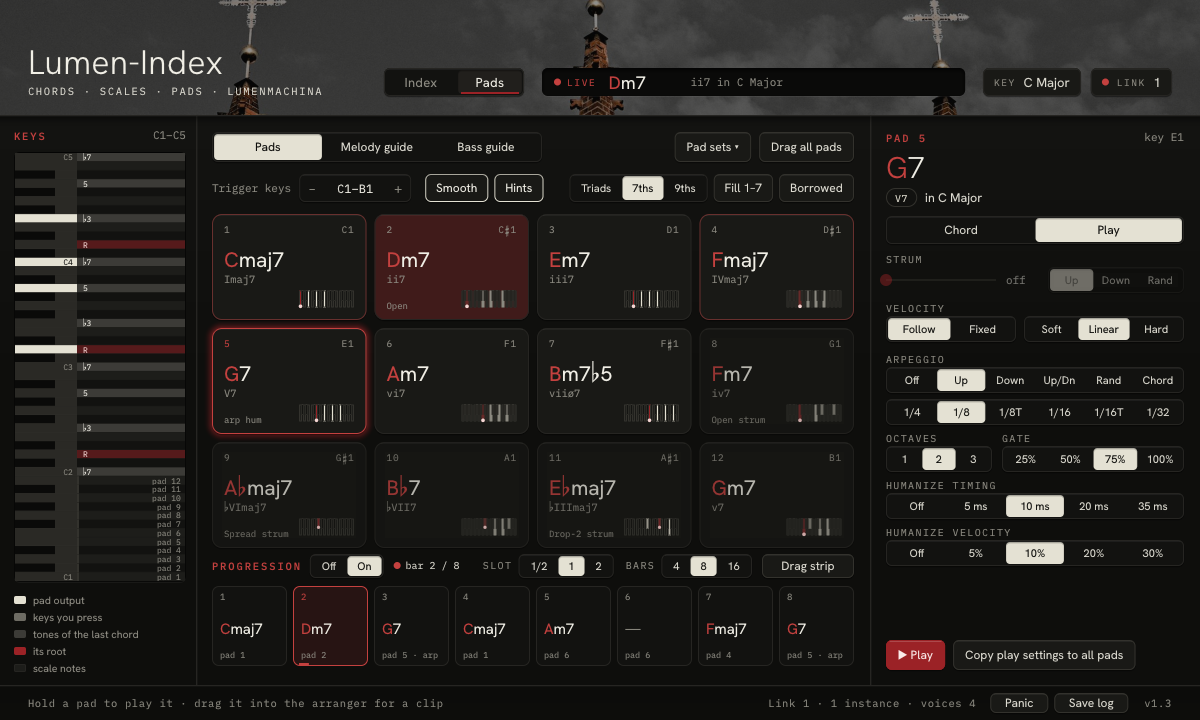
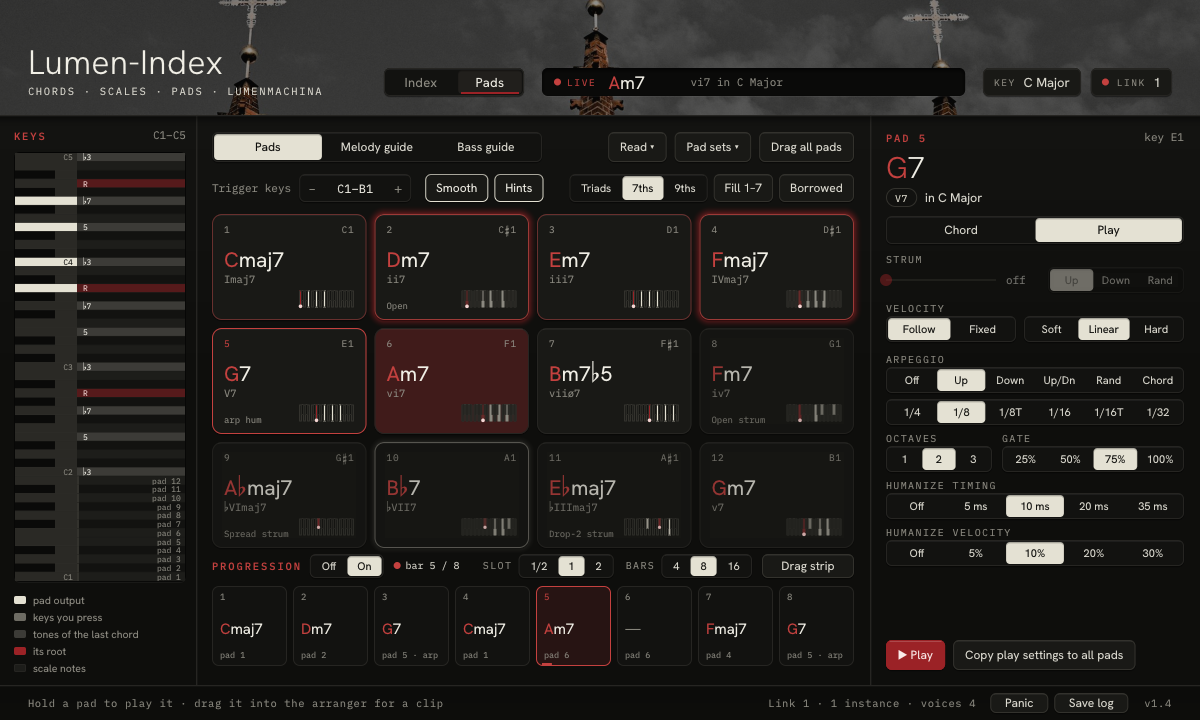
Lumen-Index 1.4: fuller page, new screenshots (Read, pad editor)
Claude-Session: https://claude.ai/code/session_01UJgLAssBDWTF9GFMoTxngF

diff --git a/plugins/lumen-index.md b/plugins/lumen-index.md
@@ -1,56 +1,90 @@
 # Lumen-Index
 
-**A chord and scale companion for making music.** Find any chord or scale by name or by the notes you play. Put chords on 12 pads and play them with strums, arpeggios and smooth voice leading, and let a progression play them in time. Follow along on a melody or bass track, catch what you played, and drag all of it straight into your song as MIDI.
+**A chord and scale companion for making music.** Look up any of 492 chords and 56 scales by name, or play a few notes and see every chord and scale that holds them. Put the chords you like on 12 pads and play them from one octave of your keyboard, with strums, arpeggios, smooth voice leading and hints for what usually comes next. Let a progression play them in time with your song, read the chords out of a clip or MIDI file you already have, follow along on a melody or bass track and catch what you played, then drag any of it into your arrangement as MIDI.
 
-Runs in **Bitwig Studio** and **Logic Pro**, and as a **standalone app** for MIDI keyboards and hardware synths, on Windows and Mac. Current version: **1.3**.
+Runs in **Bitwig Studio** (CLAP) and in **Logic Pro, GarageBand and MainStage** (Audio Unit MIDI FX), and as a **standalone app** for MIDI keyboards and hardware synths, on Windows and Mac. Current version: **1.4**.
 
-![The Pads page: the progression playing Dm7, G7 glowing as the usual next chord, borrowed chords on pads 8 to 12](../docs/images/lumen-index/pads.png)
+![The Pads page: the progression at bar 5 (Am7), Dm7 and Fmaj7 glowing as the usual next chords, borrowed chords on pads 8 to 12](../docs/images/lumen-index/pads.png)
 
-## New in 1.3
+## What's new in 1.4
 
-- **Smooth voice leading:** each pad picks the inversion nearest the chord before it, so the notes move like a keyboard player's hands.
-- **Hints:** after a pad plays, the pads that usually come next light up, with a pale glow for a twist that works.
-- **Borrowed chords:** one click puts chords from the parallel key on pads 8 to 12 (in C major: Fm, A♭, B♭, E♭, Gm).
-- **Caught:** the melody and bass guides keep the last four chords with what you played over each, ready to drag out.
-- A new look from the Lumen design book: the red-brick spires header and a touch of depth on every control.
+- **Read chords from a clip.** Press **Read**, play a clip on the track, and Lumen-Index finds its chords and its key. Or drop a MIDI file on the window: an export from your DAW, or anything from a MIDI pack. One click puts the chords on the pads, and on the progression in time.
+- **Clips you drag out fit your song.** They're timed at the song's tempo and carry no tempo marker, so Bitwig no longer asks to change your tempo when you drop one in. Strums and humanize in them used to be timed for 120 bpm whatever the song.
+- **Bitwig on Windows:** the link between tracks, Caught and Read now keep running with every plugin window closed.
+- **Save log** writes a much fuller report when something goes wrong, and there are fixes around Panic and drag-and-drop. Everything is in the [changelog](https://github.com/Lumen-Machina/Lumen-Index/blob/main/CHANGELOG.md).
 
 ## Find chords and scales
 
-Every common chord and scale, searchable by name (`Ebm9`, `sus`, `maj7#11`, `dorian`, `d hirajoshi`) or by the notes you play or click, with the best match first. Browse with the arrow keys and each chord plays as you go; a lead-in pad plays before each one, so you hear it coming from the chord before. Keep the good ones in a shortlist and play it back as a progression.
+The **Index** page is a dictionary of 41 chord types and 56 scales on every root. Type a name into **FIND** (`ebm9`, `sus`, `f#maj7`, `dorian`, `d hirajoshi`, `bebop`), or play a few notes on your keyboard, or click them, and every chord or scale that holds them comes up, best match first. **Contains** shows everything that holds your notes; **Exact** only what matches them exactly. Filters for root, quality and extension (or, for scales, family and number of notes) narrow it down.
 
-Every chord shows its notes, intervals, Roman numeral in your key and the scales it belongs to. Every scale shows its modes and the chords that fit each degree.
+Browse by ear: the arrow keys step through the results and each chord plays as you reach it. Set a **Lead-in** pad and every candidate plays after it, so you hear each one coming from your chord, not on its own.
 
-![The Index page: chords containing C, E♭, G and B♭, in B♭ major](../docs/images/lumen-index/index.png)
+Every chord shows its notes, intervals and Roman numeral in your key (or what it borrows from outside it), with your choice of inversion and voicing, and the common scales it's found in. Send it to any pad in one click. Keep the good ones in a **shortlist** of up to 24, play it back in order, and drag it out as a progression.
+
+![The Index page: every chord containing C, E♭, G and B♭, in B♭ major, with Cm7 open](../docs/images/lumen-index/index.png)
+
+Every scale shows its notes and degrees, its modes, and the chords on each degree; click a chord to hear it. **Set as key** makes the scale your key, and **Fill pads 1–7** puts its chords on the pads.
+
+![The Scales view: 90 scales holding those notes, C Minor Pentatonic open with its modes and chords on each degree](../docs/images/lumen-index/scales.png)
 
 ## Play chords on pads
 
-Twelve pads on one octave of your keyboard. Any chord on any pad, each with its own inversion, voicing (close, open, drop-2, spread) and octave. **Fill 1–7** puts your key's chords on the first seven pads as triads, 7ths or 9ths, and **Borrowed** puts chords from the parallel key on the other five: the colours behind a lot of bittersweet and shoegaze progressions.
+Twelve pads sit on the twelve keys of one octave of your keyboard: C1 to B1 by default (Bitwig's note names, where middle C is C3), and you can move them anywhere from C-1 to C7. Every other key passes straight through to your instrument, so you can play pads with one hand and a melody with the other.
 
-Turn on **Smooth** and every chord leads into the next with as little movement as possible, never far from where you set the pad. Turn on **Hints** and, after each pad, the usual next chords glow bright red, other common ones get a dim red edge, and one surprising-but-good option gets a pale glow.
+Any chord goes on any pad, each with its own root, chord type, inversion, voicing (**Close**, **Open**, **Drop-2**, **Spread**) and octave. Pick your key and scale in the header, and:
 
-Each pad has its own **strum**, **velocity** curve, **arpeggio** (up, down, up/down, random or chord; 1/4 to 1/32 with triplets; one to three octaves) and **humanize**. Save all twelve pads as a named **pad set** and load it in any project.
+- **Fill 1–7** puts your key's chords on the first seven pads as triads, 7ths or 9ths.
+- **Borrowed** puts chords from the parallel key on pads 8–12: in C major with 7ths, Fm7, A♭maj7, B♭7, E♭maj7 and Gm7, the colours behind a lot of bittersweet and shoegaze progressions. They're spelt properly (A♭, not G♯) and dimmed less than other out-of-key chords.
+- **Smooth** makes each chord lead into the next with as little movement as possible, choosing the inversion and octave nearest the chord before, never more than a sixth from where you set the pad.
+- **Hints** light up where to go next: after each pad, the usual next chords glow bright red, other common ones get a dim red edge, and one surprising-but-good option gets a pale glow.
+
+![Editing pad 2: Dm7 in an open voicing, with root, chord, inversion, voicing and octave](../docs/images/lumen-index/pad-editor.png)
+
+Each pad also has its own way of playing:
+
+- **Strum** up to 250 ms, up, down or random.
+- **Velocity** that follows your playing (soft, linear or hard curve) or stays fixed.
+- **Arpeggio**: up, down, up/down, random, or the whole chord retriggered; 1/4 to 1/32 with triplets; one to three octaves; gate from 25 to 100%. It follows the song's tempo and lands on its grid.
+- **Humanize**: timing (up to 35 ms) and velocity (up to 30%), on chords, strums and arpeggios alike.
+
+Copy a voicing or a set of play settings to every pad at once. Save all twelve pads, with every setting and the progression, as a named **pad set** and load it in any project. Loading a set, Fill 1–7, Borrowed and Read can each be undone.
 
 ## Play a progression
 
-The progression strip under the pads plays them in order, in time with your song: up to 16 slots, looping over 4, 8 or 16 bars. Click a slot, then click pads, and they fill in order. It follows loops and jumps in your song and changes chords exactly on the beat. Press a pad yourself and it takes over until you let go.
+The progression strip under the pads plays them in order, in time with your song: up to 16 slots of half a bar, one bar or two bars, looping over 4, 8 or 16 bars. Click a slot, then click pads, and they fill the slots in order. Use the same pad twice to hold a chord; right-click a slot for a rest.
 
-![The Scales view: C minor pentatonic, its modes and the chords on each degree](../docs/images/lumen-index/scales.png)
+It runs while the transport runs, lined up with the bars of your song, so it follows loops and jumps and changes chords exactly on the beat. Arpeggios, strums and Smooth carry on in the strip. Press a pad yourself and it takes over until you let go.
+
+## Read the chords of a clip
+
+Got a chord part already? Open **Read** on the Pads page and either:
+
+- **play it:** press Read, then play the clip on the same track; reading starts with its first note and stops when the song loops back or stops (up to 64 bars); or
+- **drop a MIDI file** on the window, or open one. Drums (on channel 10) are left out.
+
+Lumen-Index finds the chords bar by bar, one, two or four to a bar, whichever fits, and copes with block chords, arpeggios, slash chords, and a melody played over the chords. It finds the key too (major or natural minor). Click any chord to hear it, then put them on the pads in the order they come, at the inversion and octave they were played, with or without the progression in time, and change your key to match if you like. Pad sets has Undo for the pads and progression.
+
+(Bitwig and Logic don't hand a clip dragged from their arranger to a plugin window, which is why Read listens to the clip as it plays, alongside the file drop.)
+
+![Read: 9 chords over 8 bars read from a dropped MIDI file, in A minor, ready to put on the pads](../docs/images/lumen-index/read.png)
 
 ## Guide your melody and bass
 
-Put Lumen-Index on a melody or bass track too and link it to your pads track. The guide shows the chord being played, lights its tones, and checks each note you play against the chord and the key. **Snap** can move stray notes to the nearest one in the scale or chord, or mute them.
+Put Lumen-Index on a melody or bass track too, set it to **Melody guide** or **Bass guide**, and link it to your pads track with the same link number. The guide shows the chord being played and lights its tones (the bass guide points you to the root and the 5th), and checks each note you play: chord tone, scale note, or outside the key. Linked tracks share the key, so changing it on one changes it on all of them.
 
-**Caught** keeps the last four chords, each with the notes you played over it, how long it lasted and a little piano roll, so fast changes are easy to follow and fill. Click a card to hear its chord. Drag a card out for the line you played over it, or drag the whole line, or the chords at their real lengths.
+**Snap** can move stray notes up, down or to the nearest note in the scale or chord, or mute them.
+
+**Caught** keeps the last four chords, each with the notes you played over it, how long it lasted and a little piano roll: chord tones bright, other notes in the key grey, notes outside it red. When the changes come fast you can see what just went by and what you played over it. Click a card to hear its chord. Drag a card out for the line you played over that chord, drag the whole line, or drag the chords at their real lengths.
 
 ![The Melody guide: the last four chords caught, with the notes played over each](../docs/images/lumen-index/melody.png)
 
 ## Get it into your song
 
-Drag a pad, a chord, the shortlist, all twelve pads, the whole progression or a caught line onto your arranger, and it lands as a MIDI clip with the real notes, strums and arpeggios included. The live display names whatever is playing, with its numeral in your key.
+Drag a pad, a chord, the shortlist, all twelve pads, the whole progression or a caught line onto your arranger, and it lands as a MIDI clip with the real notes, strums, arpeggios and humanize written in, timed at your song's tempo. The live display in the header names whatever is playing, with its numeral in your key.
 
 ## Work with hardware
 
-The standalone app has the same window and engine as the plugin and talks to your MIDI gear directly, no DAW needed: choose MIDI in, MIDI out and a channel. It follows MIDI clock, so arpeggios and the progression lock to your drum machine, sequencer or DAW. On Mac it also has a virtual output, so Logic or any other app can record what it plays.
+The standalone app has the same window and engine as the plugin and talks to your MIDI gear directly, no DAW needed: choose a MIDI input, a MIDI output and a channel. It follows MIDI clock, so arpeggios lock to the tempo of your drum machine, sequencer or DAW, and after Start the progression and Read run on it too. Clock and Start/Stop pass on to your gear. On Mac it also has a virtual output, so Logic or any other app can record what it plays, and gear you replug while it runs comes back by itself.
 
 ## Where it runs
 
@@ -60,13 +94,18 @@ The standalone app has the same window and engine as the plugin and talks to you
 | **Logic Pro, GarageBand, MainStage** | | Audio Unit (MIDI FX slot) |
 | **Standalone, for MIDI gear** | App | App |
 
+In Bitwig it goes first on an instrument track, as a note effect; in Logic, in the MIDI FX slot above the instrument. Your pads, progression, key and settings are saved with the project, and every parameter can be automated.
+
 ## Getting it
 
 **[Get Lumen-Index on Gumroad →](https://lumenmachina.gumroad.com/l/lumen-index)**
 
-Pay what you want, including nothing. Windows and Mac downloads, with every future update free in your Gumroad library.
+Pay what you want, including nothing. Windows and Mac downloads, with every future update free in your Gumroad library. The same downloads are on [GitHub releases](https://github.com/Lumen-Machina/Lumen-Index/releases/latest).
 
-Found a problem or have an idea? [Open an issue](https://github.com/Lumen-Machina/Lumen-Suite/issues/new/choose) and choose Lumen-Index.
+- [User guide](https://github.com/Lumen-Machina/Lumen-Index/blob/main/docs/GUIDE.md): how to use every part, step by step.
+- [Manual](https://github.com/Lumen-Machina/Lumen-Index/blob/main/docs/MANUAL.txt): every control, in one plain-text file. It's also in each download, as `README.txt`.
+
+Found a problem or have an idea? [Open an issue](https://github.com/Lumen-Machina/Lumen-Suite/issues/new/choose) and choose Lumen-Index. If something went wrong, press **Save log** in the plugin's footer right after and attach the file it puts on your Desktop.
 
 ---
 

diff --git a/README.md b/README.md
@@ -8,16 +8,20 @@ Every plugin takes its look from one of Lumen-Machina's photographs: its colors,
 
 | Plugin | What it is | Status |
 |---|---|---|
-| **[Lumen-Index](plugins/lumen-index.md)** | A chord and scale companion: find any chord or scale by name or by the notes you play, put chords on 12 pads with borrowed chords and smooth voice leading, run a progression in time with your song, catch what you play over it, and drag it all into your arrangement as MIDI. Also a standalone app for MIDI keyboards and hardware synths. | **Released** (1.3) |
+| **[Lumen-Index](plugins/lumen-index.md)** | A chord and scale companion: find any chord or scale by name or by the notes you play, put chords on 12 pads with borrowed chords and smooth voice leading, read the chords of a clip or MIDI file, run a progression in time with your song, catch what you play over it, and drag it all into your arrangement as MIDI. Also a standalone app for MIDI keyboards and hardware synths. | **Released** (1.4) |
 | **Lumen-Haze** | A tape-worn polysynth for soft pads, fuzzy leads and shoegaze walls. | In development |
 | **Lumen-Oxide** | A tape machine effect: saturation, wow, flutter, hiss and wear, with five tape types (Ferric, Chrome, Reel, VHS, Micro) and three tape speeds. For single tracks, drum buses or a whole mix. | In testing (0.1) |
 | **[Lumen-Serra](plugins/lumen-serra.md)** | A synth built only from saw waves: 32 saw shapes in two banks, four drifting unison stacks, saw-made pulse width, hard sync, eight filter types and a string-machine ensemble. 36 presets. | **Released** (1.0) |
 
 ## Lumen-Index
 
-[![Lumen-Index: the pads, with G7 glowing as the usual next chord after Dm7](docs/images/lumen-index/pads.png)](plugins/lumen-index.md)
+[![Lumen-Index: the Pads page, with the progression at bar 5 and Dm7 and Fmaj7 glowing as the usual next chords](docs/images/lumen-index/pads.png)](plugins/lumen-index.md)
 
-Find chords and scales by name or by ear, play them from 12 pads with smooth voice leading and hints for what comes next, run a progression in time with your song, catch the line you play over it, and drag it all into your arrangement. New in 1.3: Smooth, Hints, Borrowed chords and Caught. **[See everything Lumen-Index does →](plugins/lumen-index.md)** · **[Get it on Gumroad →](https://lumenmachina.gumroad.com/l/lumen-index)**
+Find chords and scales by name or by the notes you play, and put them on 12 pads with smooth voice leading and hints for what comes next. Run a progression in time with your song, read the chords out of a clip or MIDI file, catch the line you play over them, and drag it all into your arrangement. For Bitwig, Logic, GarageBand and MainStage, and as a standalone app for hardware.
+
+New in 1.4: Read chords from a clip as it plays or from a dropped MIDI file, and dragged clips timed at your song's tempo with no tempo prompt in Bitwig.
+
+**[See everything Lumen-Index does →](plugins/lumen-index.md)** · **[Get it on Gumroad →](https://lumenmachina.gumroad.com/l/lumen-index)** · [User guide](https://github.com/Lumen-Machina/Lumen-Index/blob/main/docs/GUIDE.md)
 
 ## Lumen-Serra
 
